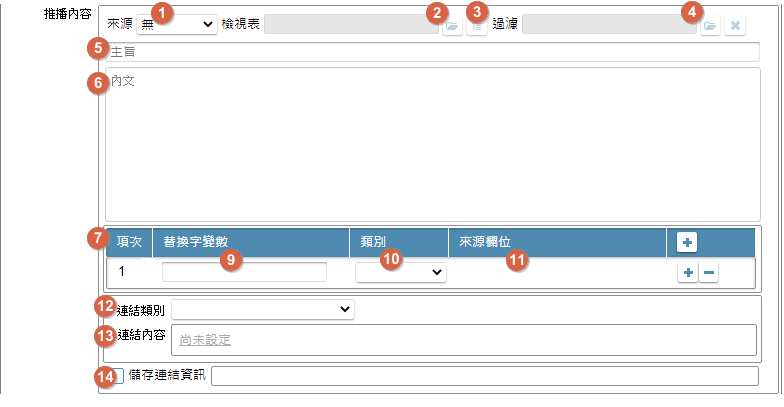
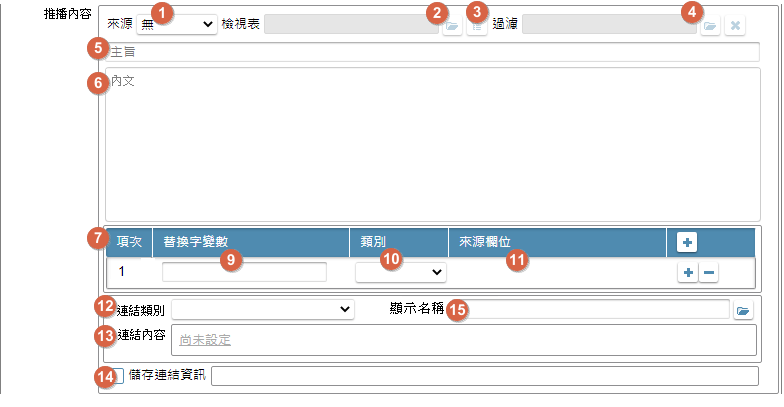
#8553 APP:推播功能_超連結變更文字

Changed region(s): [[0.4898, 0.7371, 0.6122, 0.7961], [0.9184, 0.7371, 0.9796, 0.7961]]

diff --git a/8.10.0/UPDATE/ITEM_2/IDE/BAMAENotice.md b/8.10.0/UPDATE/ITEM_2/IDE/BAMAENotice.md
@@ -172,6 +172,12 @@
                 * 可超連結開啟[儲存連結資訊][link_savelinkinfo], 關單後顯示: 寫入資料表 : *表格名稱*
         * 作業流程
             * ![pic][image_OpenSaveLinkInfo]
+    * <t id="link_show_name">(15)顯示名稱</t>
+        * 用途說明
+            * 在MAE, 推播訊息中顯示的名稱
+        * 規格說明
+            * 參照 [使用多語詞庫通則][link_ruledialog2], 回傳:按鍵多語內容並顯示
+
 
 * <p id="fieldbreak4" style="color:blue;font-weight:bold">通知對象</p>  
 
@@ -223,7 +229,8 @@
     * 訊息盒:【標題: 執行存回，發生下列錯誤 / 訊息內容: 以下資料未填寫正確 *錯誤欄位名* / 按鍵: 確定】
         * 確定: 關閉訊息盒 
     * [推播內容][link_fieldbreak3]
-        * `主旨`、`內文`、`連結字變數`、`連結類別`、`連結內容`, 不允空白
+        * `主旨`、`內文`、`連結字變數`, 不允空白
+        * 當`連結類別`有值時、`顯示名稱`、`連結內容`, 不允空白
         * 當`替換字變數`有值時,
             * 內容值中間不能出現空白格
             * `類別`、`來源欄位`, 不允空白

diff --git a/8.10.0/UPDATE/ITEM_2/IDE/history.md b/8.10.0/UPDATE/ITEM_2/IDE/history.md
@@ -29,6 +29,8 @@
     |按鍵加註/推播通知/推播資訊/連結內容/超連結表單, 增加欄位用途說明                            | [超連結按鍵][link_linkbutton] |
     |規格書, 修正寫法 ; 增加連結內容                                                          | [規格書][link_specification] |
 
+* Changed Prenkt 2021/06/18: #8533 APP:推播功能_超連結變更文字  ([Trac#8533])
+    異動內容: 增加連結內容的顯示名稱 [異動內容][link_show_name]
 
 
 
@@ -48,3 +50,5 @@
 
 [link_case1]:DesignCaseDes.md#case1
 [Trac#8193]:http://trac.uneec.com/trac/neco/ticket/8193 "#8193"
+[Trac#8533]:http://trac.uneec.com/trac/neco/ticket/8533#comment:2 "#8533"
+[link_show_name]:BAMAENotice#link_show_name

diff --git a/8.10.0/IDE/Specification/RulesDialog/README.md b/8.10.0/IDE/Specification/RulesDialog/README.md
@@ -29,7 +29,7 @@
     * 用途說明
     * 規格說明
         * 顯示多語名稱
-        * 不須輸入, 唯讀
+        * 可自行輸入
 * `(2)開窗鍵`
     * 用途說明
     * 規格說明
